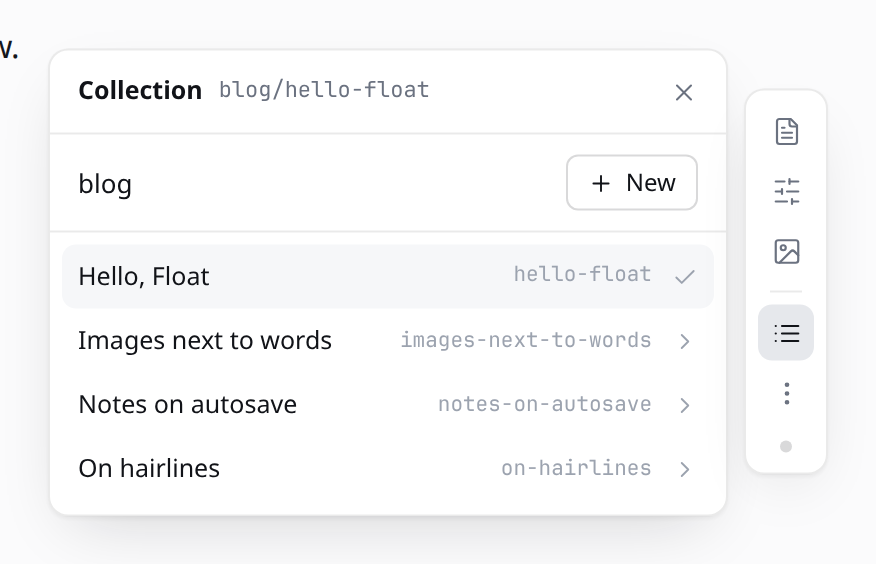
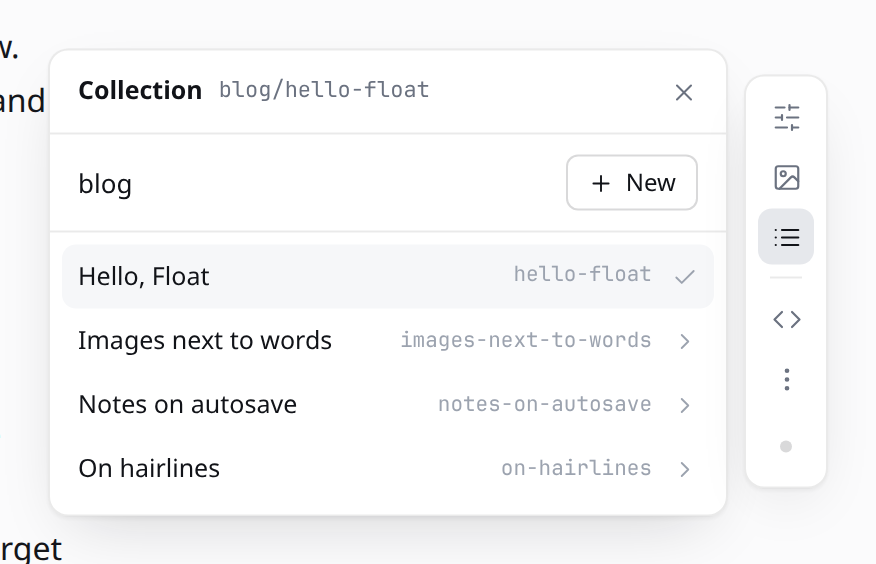
Docs: on-page editing walkthrough, block-level round-trip notes, known limits; new screenshots

diff --git a/README.md b/README.md
@@ -1,10 +1,10 @@
 # astro-float
 
-A proof-of-concept floating content editor for Astro content collections. It lives in the **Astro Dev Toolbar** — one icon toggles a vertical rail docked to the edge of the page — and writes Markdown straight to disk while you look at the rendered page.
+A proof-of-concept content editor for Astro content collections that lives **on the page**. Toggle one icon in the **Astro Dev Toolbar** and the rendered Markdown body becomes editable in place — click into the prose, type, save. A thin vertical rail docks to the edge of the viewport for the things that can't live in the text: frontmatter fields, images, other entries, a read-only view of the Markdown that's about to hit disk.
 
-No `/admin`, no desktop app, no CMS studio. Dev-only: the integration adds nothing to production builds.
+No `/admin`, no desktop app, no CMS studio, no separate text area. Dev-only: the integration adds nothing to production builds.
 
-![Float open on a blog post, docked right, body editor visible](docs/float-body.png)
+![Editing a blog post in place: dashed focus outline around the prose, caret in the text, thin rail on the right with a dark Save button](docs/float-editing.png)
 
 ## Preview it
 
@@ -15,41 +15,41 @@ pnpm install
 pnpm dev
 ```
 
-Open <http://localhost:4321/blog/hello-float/>, move the mouse to the bottom of the window to reveal the Astro dev toolbar, and click the **Float** icon (the last one before Settings).
+Open <http://localhost:4321/blog/hello-float/>, move the mouse to the bottom of the window to reveal the Astro dev toolbar, and click the **Float** icon (the last one before Settings). Then click into the article and type.
 
 > Local `astro dev` is the only real preview path — the editor writes to your filesystem. A Vercel/Netlify preview would only show the plain blog, since the integration is stripped from builds.
 
-## What you can do from the float
+## On the page
 
-| Rail icon | Panel | What it does |
-| --- | --- | --- |
-| Document | **Body** | Edit the entry's Markdown. Save with **⌘S / Ctrl+S**, the **Save** button (appears only when dirty), or autosave. The page re-renders in place — no reload, scroll and caret preserved. Drop or paste images straight into the editor. |
-| Sliders | **Fields** | Frontmatter as a form. Types are inferred from the values: text, long text, number, date, tags (`string[]`), boolean switch, JSON fallback. Add or remove fields. |
-| Image | **Images** | Drop zone + grid of images already colocated with the entry. Uploads land next to the entry (`src/content/blog/<post>/photo.png`) and a `![alt](./photo.png)` link is inserted at the cursor. Astro's asset pipeline picks the relative path up as normal. |
-| List | **Collection** | Every entry in the collection (switch collections if there are several), the current one marked. **New** creates an entry with frontmatter inferred from its siblings and navigates to it. |
-| Dots | **Settings** | Dock left/right, autosave toggle, shortcuts, and the file path of the current entry. |
+| | |
+| --- | --- |
+| **Type** | The body under `[data-float-body]` is `contenteditable` while Float is on. Native caret, native undo, native spellcheck. Links don't navigate (⌘-click does). |
+| **Save** | A dark Save button appears at the bottom of the rail the moment the page differs from disk. **⌘S / Ctrl+S** works anywhere. Optional autosave (800ms after you stop typing) in Settings. |
+| **Shortcuts** | At the start of an empty line: `# `…`###### ` heading, `- ` / `* ` bullet, `1. ` numbered, `> ` quote, ``` ``` ``` code block. **Tab / ⇧Tab** nest and un-nest list items. **⌘B / ⌘I** bold / italic, **⌘K** link. Inside a code block Enter is a newline; ⇧Enter leaves it. **Esc** leaves the text without closing the float. |
+| **Images** | Drop or paste an image onto the prose. The file is copied **next to the entry** (`src/content/blog/<post>/photo.png`), shows up where you dropped it, and is written as `![alt](./photo.png)`. |
+| **Live preview** | While your caret is in the text, a save doesn't touch the DOM — what you typed *is* the preview. Save from the rail (or with the caret elsewhere) and the page is re-rendered by Astro in place, no reload, scroll kept. |
+
+## The rail
 
 <p>
-  <img src="docs/float-dirty.png" width="300" alt="Body panel with unsaved changes and a Save button">
-  <img src="docs/float-fields.png" width="300" alt="Fields panel showing inferred frontmatter controls">
+  <img src="docs/float-rail.png" width="90" alt="The rail: Fields, Images, Collection, Source, Settings, and a dark Save button in the bottom slot" align="left" hspace="12">
 </p>
 
-![Collection panel listing entries with a New button](docs/float-collection.png)
+| Icon | Panel | |
+| --- | --- | --- |
+| Sliders | **Fields** | Frontmatter as a form. Controls inferred from values: text, long text, number, date, tags (`string[]`), boolean switch, JSON fallback. Add / remove fields. |
+| Image | **Images** | Drop zone + grid of images already colocated with the entry. Click one to insert it after the paragraph your caret is in. |
+| List | **Collection** | Every entry in the collection (switch collections if there are several), current one marked. **New** creates an entry with frontmatter inferred from its siblings and opens it. |
+| `<>` | **Source** | Read-only escape hatch: the exact Markdown that Save will write. (Editable only when the page has no `data-float-body`.) |
+| Dots | **Settings** | Dock left / right, autosave, shortcut cheat-sheet, current file. |
+| Bottom slot | **Status / Save** | Quiet dot: gray idle · amber unsaved · pulsing saving · green saved · red error. Becomes the Save button when there's something to save and autosave is off. |
 
-## Repo layout
+<br clear="all">
 
-```
-packages/astro-float/   the integration (what you'd publish to npm)
-  src/index.js            Astro integration: registers the toolbar app + dev API
-  src/server/api.js       /__float/api/* endpoints (localhost-only JSON)
-  src/server/content.js   frontmatter parse/serialize, collection discovery, uploads
-  src/server/sync-gate.js swallow Astro's post-save reload, signal "content synced"
-  src/toolbar/app.ts      defineToolbarApp() entry
-  src/toolbar/float.ts    the rail + panels (vanilla TS, shadow DOM, no framework)
-  src/toolbar/styles.ts   cool-gray tokens, hairlines, light + dark
-demo/                   a minimal Astro 5 blog with a `blog` collection and 4 posts
-docs/                   screenshots
-```
+<p>
+  <img src="docs/float-fields.png" width="300" alt="Fields panel with inferred frontmatter controls">
+  <img src="docs/float-source.png" width="300" alt="Source panel showing the Markdown that will be written">
+</p>
 
 ## Using it in your own Astro project
 
@@ -63,13 +63,24 @@ export default defineConfig({
 });
 ```
 
-Zero config: every directory under `src/content/` that holds Markdown is treated as a collection. Float works out which entry a page renders by matching the URL tail against entry ids; for anything unusual, bind it explicitly:
+Then mark the element that wraps your rendered Markdown:
 
 ```astro
-<article data-float-entry={`blog:${post.id}`}>…</article>
+---
+const { Content } = await render(post);
+---
+<article data-float-entry={`blog:${post.id}`}>
+  <h1>{post.data.title}</h1>
+  <div class="prose" data-float-body>
+    <Content />
+  </div>
+</article>
 ```
 
-Options, all optional:
+- `data-float-body` — required for on-page editing. It must wrap **only** the rendered body (not the title or other frontmatter-driven markup), because its children are what gets written back as Markdown.
+- `data-float-entry="collection:id"` — optional. Without it Float matches the URL tail against entry ids (`/blog/hello-float/` → `hello-float`).
+
+Zero config otherwise: every directory under `src/content/` that holds Markdown is a collection. Options, all optional:
 
 ```js
 astroFloat({
@@ -84,23 +95,55 @@ astroFloat({
 
 ## How it works
 
-- **Dev toolbar app.** `addDevToolbarApp()` in `astro:config:setup` (only when `command === "dev"`). The rail and panels render into the app's shadow root, so nothing leaks into the host page's CSS and vice versa. Toggling the toolbar icon shows/hides the canvas; open state survives reloads via `sessionStorage`.
-- **API.** `astro:server:setup` mounts `/__float/api/*` on the Vite dev server: list collections, read/write an entry, create an entry, list/upload media. Requests must come from `localhost` (host header and socket address), be same-origin, and carry an `x-astro-float` header for mutations. Paths are confined to the collection directory; images are extension-allowlisted.
-- **Files.** Frontmatter goes through `yaml` (key order kept, quoting normalized); the body is kept byte-for-byte. Saves carry the hash of the file as loaded — if it changed on disk in the meantime you get a 409 and a Reload / Overwrite choice instead of a silent clobber.
-- **Live update without reload.** Astro's content layer re-syncs a changed entry and asks the browser to full-reload, which would kill the editor mid-keystroke. `sync-gate.js` opens a 3s quiet window after each Float save, swallows that reload, and uses it as the "synced" signal: the save endpoint responds only once the store has the new content, the client fetches the fresh HTML and swaps everything except the toolbar. Edits from your IDE still reload normally.
+- **Dev toolbar app.** `addDevToolbarApp()` in `astro:config:setup`, only when `command === "dev"`. The rail renders into the app's shadow root so no CSS leaks either way. Toggling the icon attaches/detaches `contenteditable` on `[data-float-body]`; open state survives reloads via `sessionStorage`.
+- **Block-level round trip.** The server parses the body with `mdast-util-from-markdown` (+ GFM) and returns each top-level block's exact source slice. The client lines those up with the body's top-level DOM children. On save it aligns the current DOM against that snapshot (LCS on outerHTML): unchanged blocks emit their **original Markdown byte-for-byte**; only edited or new blocks go through the HTML→Markdown serializer. A one-word fix is a one-line diff.
+- **HTML→Markdown** (`src/toolbar/html-to-md.ts`) covers what remark-rehype + Shiki emit: ATX headings, paragraphs, tight/loose and nested lists, task lists, links (with titles), images (Vite `/@fs/…` and Astro `/_image?href=…` URLs mapped back to `./relative`), inline code, fenced code with language, blockquotes, rules, GFM tables with alignment, strong / em / strike, hard breaks. Unknown elements pass through as raw HTML. Fidelity check: serializing the demo's rendered pages reproduces every source block identically.
+- **API.** `astro:server:setup` mounts `/__float/api/*`: collections, read/write entry, create entry, list/upload media. Localhost-only (host header + socket address), same-origin, custom header on mutations, paths confined to the collection dir, image extension allowlist. Saves carry the file hash as loaded; a 409 gives you Reload / Overwrite instead of a silent clobber.
+- **No reload on save.** Astro's content layer full-reloads the page after a content change. `sync-gate.js` swallows that reload for 3s after a Float save and uses it as the "synced" signal, so the save response only returns once the store has the new content. If the caret is in the body the DOM is left alone; otherwise the client fetches fresh HTML and swaps everything but the toolbar. IDE edits still reload as normal.
+
+## Known round-trip limits (v0)
+
+Only blocks you edit are re-serialized, so these only bite inside a paragraph you actually touched:
+
+- **Markdown style is normalized**: `*emphasis*`, `**strong**`, `-` bullets, `1.` numbering, ATX `#` headings, fenced code. Setext headings, `+`/`*` bullets, reference-style links (`[text][ref]`) and autolinks in an edited block come back as the inline/ATX forms.
+- **Smartypants**: Astro renders `'`/`"` as `’`/`“”`; edited blocks write straight quotes back (renders the same). Em dashes and ellipses are kept as-is.
+- **Raw HTML in Markdown** round-trips as raw HTML (fine), but if a raw-HTML block renders to more than one element, block counts won't line up and Float falls back to re-serializing the whole body (Settings and Source tell you when that happens).
+- **Footnotes** (`[^1]`) live in a rendered footer section, which breaks the block alignment → whole-body fallback; an edited paragraph containing a footnote ref keeps the rendered `<sup>` as raw HTML.
+- **MDX**: components render to arbitrary HTML; edited blocks would be written as that HTML. Treat `.mdx` as view-only for now.
+- **Custom remark/rehype plugins** that add wrappers (e.g. heading anchors, TOC) can change block counts or inject markup that gets serialized as HTML.
+- **Escaping** is conservative: `* _ [ ] < \`` and line-leading `# - + > 1.` are escaped in edited text; `&` and `~` (single) are not.
+- Programmatic conversions (typing `## ` etc.) aren't in the browser's undo stack. Native typing undo works.
+- A `<br>` typed with ⇧Enter inside a paragraph becomes a two-space hard break.
 
 ## Intentionally out of scope for v0
 
-- Reading Zod schemas from `content.config.ts` — field types are inferred from values. Next step: parse the schema (or `astro sync` output) to drive controls and validation.
-- MDX bodies are treated as plain text; no component awareness.
-- Rich-text / WYSIWYG editing on the page itself. The body panel is a Markdown textarea on purpose.
-- Creating collections, deleting entries, renaming slugs, git operations.
-- Non-Markdown loaders (JSON/YAML data collections, remote loaders).
-- Live-loader / view-transitions (`<ClientRouter />`) pages — untested.
-- Auth, multi-user, production use. This only runs under `astro dev` on localhost.
+- Zod schema awareness for Fields (types are inferred from values) — natural next step
+- Inline formatting toolbar / link popover (⌘B / ⌘I / ⌘K + Markdown shortcuts only)
+- Creating collections, deleting / renaming entries, git operations
+- JSON/YAML data collections, remote loaders, live-loader / `<ClientRouter />` pages
+- Auth, multi-user, anything outside `astro dev` on localhost
+
+## Repo layout
+
+```
+packages/astro-float/   the integration (what you'd publish to npm)
+  src/index.js            Astro integration: toolbar app + dev API
+  src/server/api.js       /__float/api/* endpoints (localhost-only JSON)
+  src/server/blocks.js    Markdown → top-level source blocks (mdast, with offsets)
+  src/server/content.js   frontmatter parse/serialize, collection discovery, uploads
+  src/server/sync-gate.js swallow Astro's post-save reload, signal "content synced"
+  src/toolbar/app.ts      defineToolbarApp() entry
+  src/toolbar/editor.ts   on-page contenteditable controller + block alignment
+  src/toolbar/html-to-md.ts  HTML → Markdown for edited blocks
+  src/toolbar/float.ts    the rail + panels (vanilla TS, shadow DOM, no framework)
+  src/toolbar/styles.ts   cool-gray tokens, hairlines, light + dark
+demo/                   a minimal Astro 5 blog with a `blog` collection and 4 posts
+docs/                   screenshots
+```
 
 ## Notes
 
 - Astro prints `[glob-loader] Duplicate id … found` after every content save. That's Astro's own watcher log for changed files, not a Float bug.
-- Tested against Astro 5.18 / Vite 6. The sync gate relies on the content layer sending `{ type: "full-reload", path: "*" }` after a data-store write; other majors are unverified.
+- If you delete an image that a post referenced, Astro's `.astro/` asset cache can 500 the page until you restart `astro dev`.
+- Tested against Astro 5.18 / Vite 6 / Chrome. The sync gate relies on the content layer sending `{ type: "full-reload", path: "*" }` after a data-store write; other majors are unverified. `contenteditable` behaviour is Chromium-tested; Safari/Firefox will differ in the details.
 - Prefs (dock side, autosave, last panel) live in `localStorage` under `astro-float:*`.

diff --git a/packages/astro-float/README.md b/packages/astro-float/README.md
@@ -1,6 +1,6 @@
 # astro-float
 
-Minimal floating content editor for Astro content collections. Lives in the Astro Dev Toolbar; edits Markdown bodies, frontmatter and colocated images on disk during `astro dev`. Adds nothing to production builds.
+Minimal on-page content editor for Astro content collections. Toggle it from the Astro Dev Toolbar; the rendered Markdown body becomes editable in place, a thin rail handles frontmatter, images and other entries, and everything writes back to the `.md` on disk during `astro dev`. Adds nothing to production builds.
 
 ```js
 // astro.config.mjs
